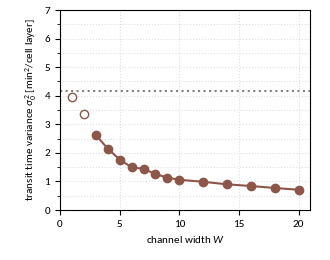
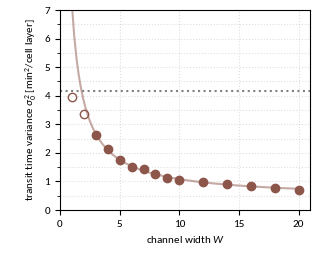
Plot a/W + b fit in figS2B

diff --git a/figures/figS1/code/figS1B_plot.py b/figures/figS1/code/figS1B_plot.py
@@ -3,10 +3,12 @@
 # Available under GPLv3 licence, see README for more details 
 
 import pandas as pd
+import numpy as np
 import matplotlib.pyplot as plt
 from pathlib import Path
 from matplotlib.ticker import MultipleLocator
 from subplots_from_axsize import subplots_from_axsize
+from sklearn.linear_model import LinearRegression
 import sys
 sys.path.insert(0, str(Path(__file__).parent.parent.parent.parent)) # in order to be able to import from scripts.py
 from scripts.style import *
@@ -20,8 +22,19 @@ panel_dir.mkdir(exist_ok=True, parents=True)
 fig, ax = subplots_from_axsize(1, 1, (2.5, 2))
 
 variance_per_step = pd.read_csv(data_dir / 'variance_per_step.csv').set_index('channel_width')
-variance_per_step[variance_per_step['channel_length'].eq(300) & (variance_per_step.index.get_level_values('channel_width') > 2)].plot(style='o-', ax=ax, color="C5")
+channel_widths = np.linspace(1,20,101)
+variance_per_step[variance_per_step['channel_length'].eq(300) & (variance_per_step.index.get_level_values('channel_width') > 2)].plot(style='o-', ax=ax, ls='none', color="C5")
 variance_per_step[variance_per_step['channel_length'].eq(30) & (variance_per_step.index.get_level_values('channel_width') <= 2)].plot(style='o', fillstyle='none', ax=ax, color="C5")
+
+variance_per_step_for_fit = variance_per_step[variance_per_step['channel_length'].eq(300) & (variance_per_step.index.get_level_values('channel_width') > 2)]
+lreg = LinearRegression().fit(1. / variance_per_step_for_fit.index.get_level_values('channel_width').to_numpy().reshape(-1, 1), variance_per_step_for_fit[['variance_per_step']].to_numpy())
+a, b = lreg.coef_[0][0], lreg.intercept_[0]
+ax.plot(channel_widths, a / channel_widths + b, color="C5", alpha=.5)
+print(f"$\\sigma^2$ = {a:.3g} / W + {b:.3g}")
+# plt.plot(variance_per_step[variance_per_step['channel_length'].eq(300)].index, 
+# (variance_per_step[variance_per_step['channel_length'].eq(300)]['variance_per_step'] - 0.4 )* variance_per_step[variance_per_step['channel_length'].eq(300)].index
+#  , marker='o')
+# plt.legend() 
 
 analytical_variance_per_step = get_progression_var(PARAMETERS_DEFAULT, n_neighbors=2)
 print(analytical_variance_per_step)

diff --git a/figures/figS1/code/figS1A_plot.py b/figures/figS1/code/figS1A_plot.py
@@ -18,8 +18,8 @@ panel_dir.mkdir(exist_ok=True, parents=True)
 fig, ax = subplots_from_axsize(1, 1, (2.5, 2), left=.8)
 
 velocity = pd.read_csv(data_dir / 'velocity.csv').set_index('channel_width')
-velocity[velocity['channel_length'].eq(300)].plot(style='o-', ax=ax, color="C4")
-velocity[velocity['channel_length'].eq(30) & (velocity.index.get_level_values('channel_width') == 1)].plot(style='o-', fillstyle='none', ax=ax, color="C4")
+velocity[velocity['channel_length'].eq(300)].plot(style='o', lw=0, ax=ax, color="C4")
+velocity[velocity['channel_length'].eq(30) & (velocity.index.get_level_values('channel_width') == 1)].plot(style='o', fillstyle='none', ax=ax, color="C4")
 
 yticks = [0.1 * y for y in range(5)]
 ax.set_ylabel('front propagation speed $v$ [cell layer/min]')
